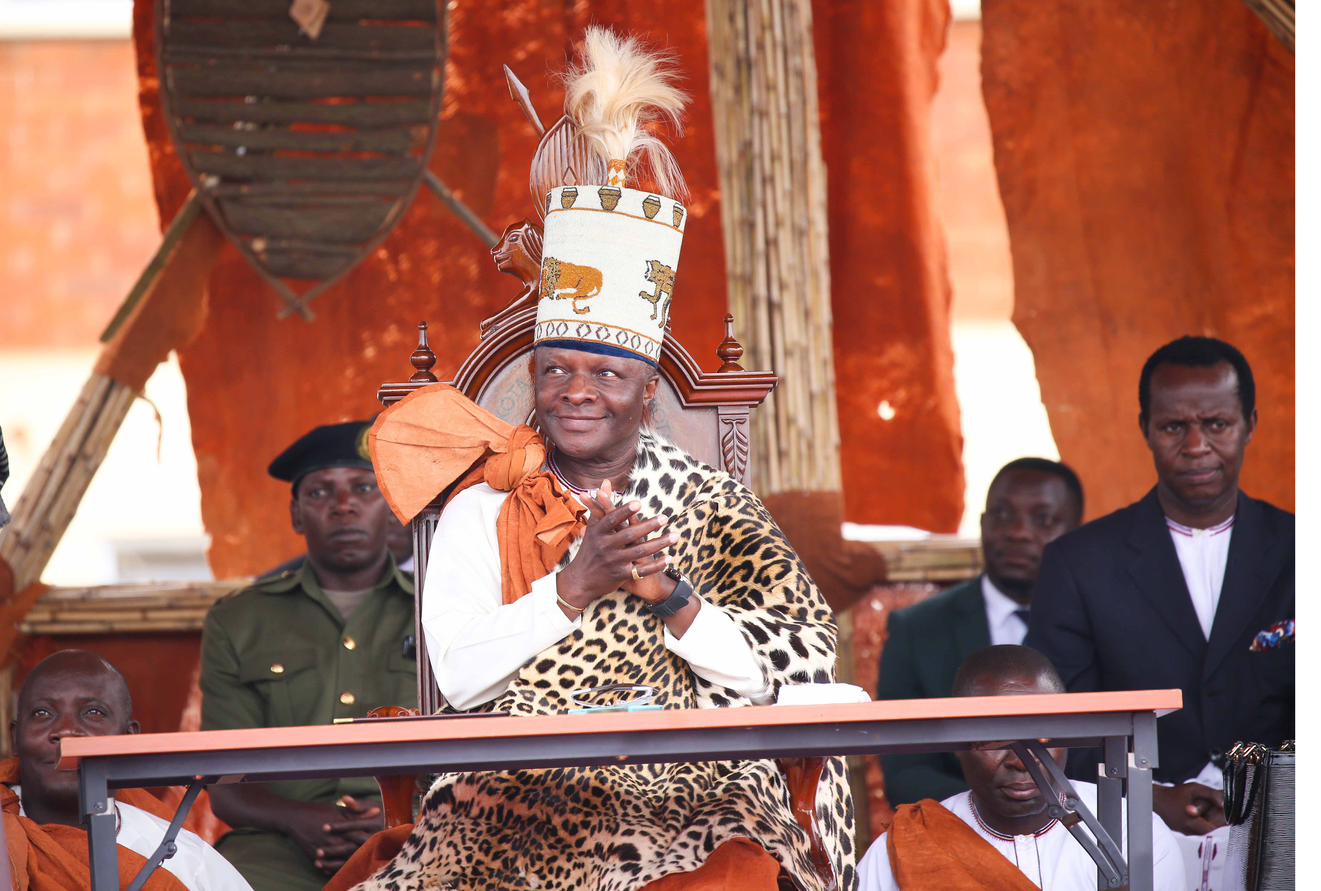
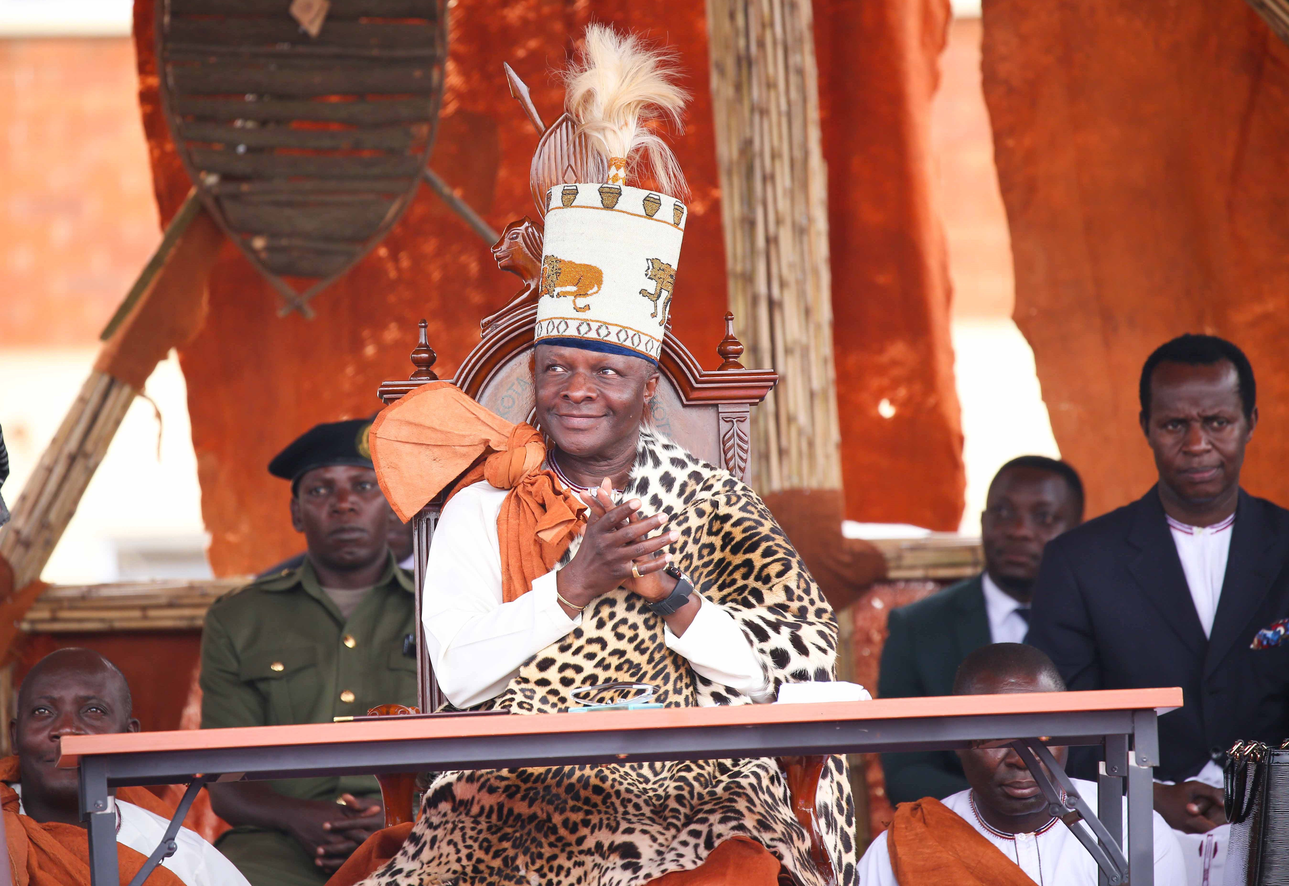
fxing slider images

diff --git a/src/pages/Home.js b/src/pages/Home.js
@@ -32,16 +32,16 @@ const Home = () => {
   return (
     <div className="bg-blue-50 min-h-screen">
       {/* Hero Section */}
-      <section className="relative w-full h-[100vh] pt-16">
+      <section className="relative w-full h-[75vh] pt-16">
         <Slider {...sliderSettings} className="absolute top-0 left-0 w-full h-full">
           {[Kabaka4, Kabaka3, bug10, bug1, bug4, bug5, bug9, bug7, bug8]
             .filter(Boolean) // Ensures no undefined values
             .map((image, index) => (
-              <div key={index} className="w-full h-[100vh] flex justify-center items-center relative">
+              <div key={index} className="w-full h-[75vh] flex justify-center items-center relative">
                 <img
                   src={image}
                   alt={`Slide ${index + 1}`}
-                  className="w-full h-full object-cover"
+                  className="w-full h-full object-cover border-8 border-blue-900"  // Dark blue border
                 />
                 <div className="absolute inset-0 bg-black/30 flex flex-col items-center justify-center text-white text-center">
                   <h1 className="text-5xl md:text-6xl font-bold tracking-tight">
@@ -66,49 +66,8 @@ const Home = () => {
       <section className="py-16 text-center">
         <h2 className="text-5xl md:text-6xl font-bold mb-10 text-gray-800">Upcoming Events</h2>
         <div className="grid grid-cols-1 sm:grid-cols-2 lg:grid-cols-3 gap-8 px-6">
-          {[
-            {
-              img: bug9,
-              title: "Youth Empowerment Summit",
-              date: "March 15, 2025",
-              location: "Kampala, Uganda",
-              description: "Join us for leadership workshops and inspiring speakers.",
-            },
-            {
-              img: bug7,
-              title: "Cultural Exchange Day",
-              date: "April 20, 2025",
-              location: "Mengo Palace, Buganda",
-              description: "Celebrate Buganda's rich heritage with music, dance, and storytelling.",
-            },
-            {
-              img: bug8,
-              title: "Youth Convention",
-              date: "May 10, 2025",
-              location: "Kabaka's Lake, Kampala",
-              description: "A gathering of young leaders from Buganda to discuss the future.",
-            },
-            {
-              img: bug9,
-              title: "Buganda Heritage Exhibition",
-              date: "June 12, 2025",
-              location: "Buganda Kingdom",
-              description: "Discover the rich artifacts and history of Buganda's culture.",
-            },
-            {
-              img: bug7,
-              title: "Music & Dance Festival",
-              date: "July 20, 2025",
-              location: "Kampala, Uganda",
-              description: "Join us for an exciting festival celebrating Buganda's musical heritage.",
-            },
-            {
-              img: bug8,
-              title: "Traditional Foods Festival",
-              date: "August 10, 2025",
-              location: "Buganda Region",
-              description: "Experience the flavors of Buganda through its traditional dishes.",
-            },
+          {[ 
+            // Event details here (same as before)
           ].map((event, index) => (
             <div
               key={index}
@@ -140,8 +99,8 @@ const Home = () => {
           />
           <div className="text-left">
             <p className="text-3xl font-light leading-snug">
-              "Together, we build a stronger Buganda. Our culture, history, and values define us. 
-              The youth hold the key to a brighter future. Let’s unite, innovate, and create opportunities 
+              "Together, we build a stronger Buganda. Our culture, history, and values define us.
+              The youth hold the key to a brighter future. Let’s unite, innovate, and create opportunities
               for the next generation."
             </p>
             <p className="mt-6 text-2xl font-bold text-white-400">- Charles Peter Mayiga</p>
